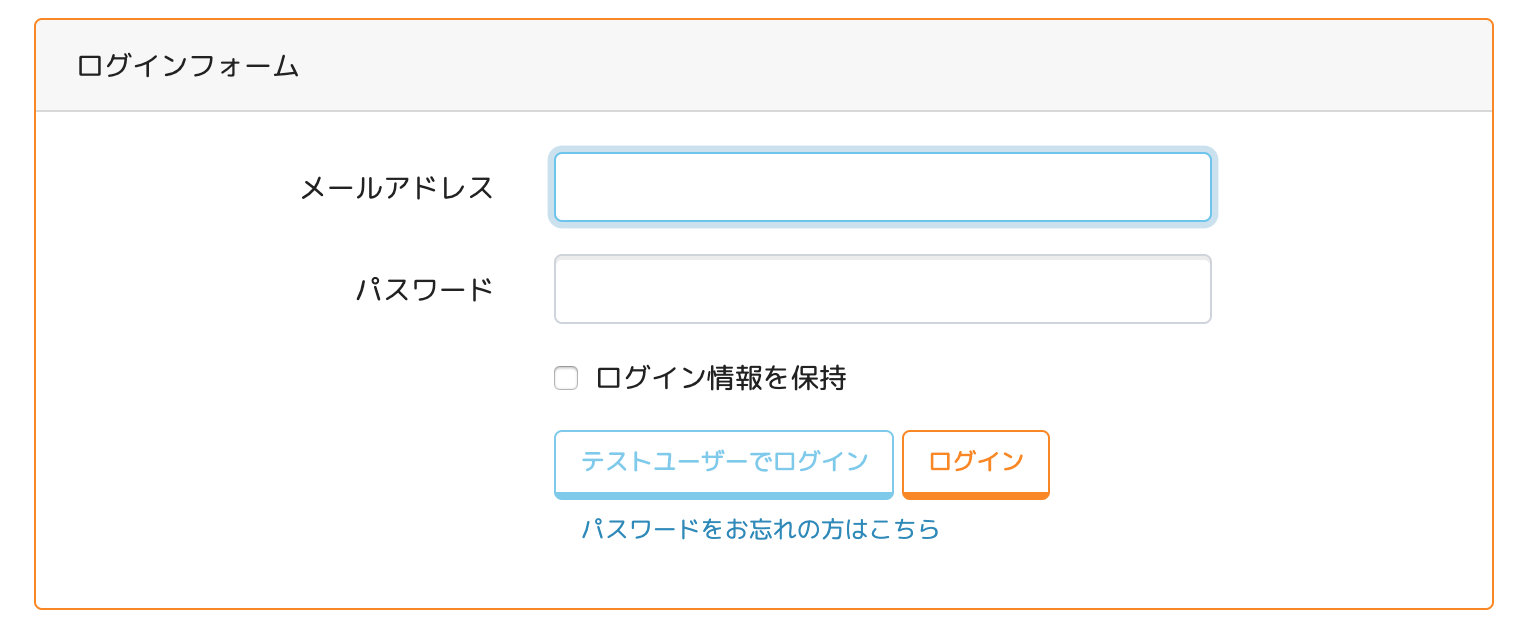
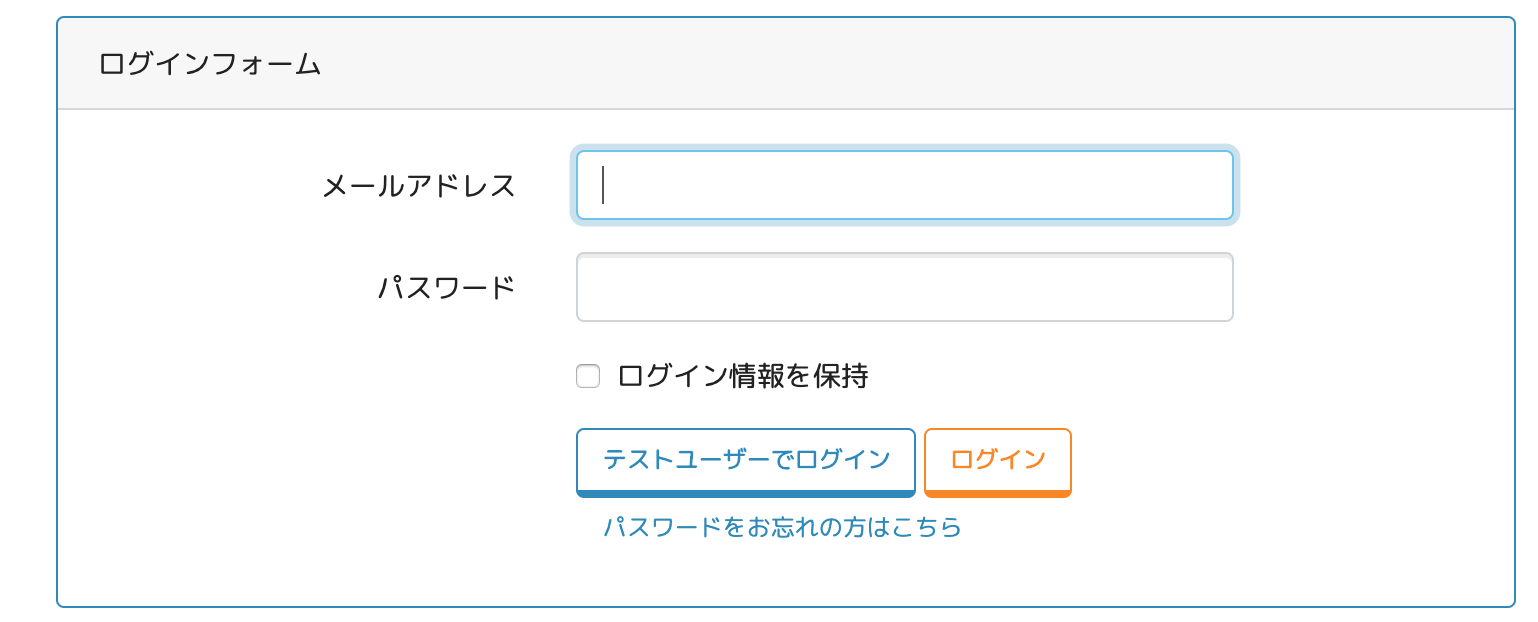
ユーザー詳細 パネルによる表示出し分け実装

diff --git a/public/css/custom.css b/public/css/custom.css
@@ -24,3 +24,16 @@ body {
 .main-ttl {
     text-shadow: 2px 2px #158bba;
 }
+
+#myFavos {
+    display: none;
+}
+
+#myComments {
+    display: none;
+}
+
+.nav-tabs .nav-link.active {
+    background: #158bba;
+    color: #fff;
+}

diff --git a/resources/views/users/show.blade.php b/resources/views/users/show.blade.php
@@ -2,6 +2,7 @@
 
 @section('content')
     <div class="container mt-3 text-center">
+        <h2>ユーザー詳細</h2>
         @if ($user->avatar_image)
             <dd class="col-md-9 w-25"><img src="{{ $user->avatar_image }}" class="rounded-circle w-25"></dd>
         @else
@@ -35,12 +36,109 @@
         </table>
         @if (Auth::id() === $user->id)
             <a href="{{ route('users.edit', ['user' => $user]) }}">
-                <button class="btn btn-outline-warning w-50 mb-3">編集する</button>
+                <button class="btn btn-outline-primary w-50 mb-3">編集する</button>
             </a>
             @component('components.delete-btn')
             @slot('name', 'users')
             @slot('id', $user->id)
             @endcomponent
         @endif
+
+        <ul class="nav nav-tabs nav-fill mt-5">
+            <li class="nav-item"><a href="#" id="postsTab" class="nav-link active">投稿一覧</a></li>
+            <li class="nav-item"><a href="#" id="favosTab" class="nav-link">お気に入り一覧</a></li>
+            <li class="nav-item"><a href="#" id="commentsTab" class="nav-link">コメント一覧</a></li>
+        </ul>
+
+        <div id="myPosts" class="nav-cnt">
+            <h3 class="mt-5">投稿一覧</h3>
+            <div class="row">
+                @forelse($user->maps as $map)
+                    <div class="col-md-6">
+                        <div class="card mb-2">
+                            <div class="card-header">
+                                タイトル：{{ $map->title }}
+                            </div>
+                            <div class="card-body">
+                                <p>場所：{{ $map->place }}</p>
+                                <p>日時：{{ $map->date }}</p>
+                                <a href="{{ route('map.show', ['map' => $map]) }}"><button class="btn btn-outline-primary">詳細</button></a>
+                            </div>
+                        </div>
+                    </div>
+                @empty
+                    <p>投稿はありません。</p>
+                @endforelse
+            </div>
+        </div>
+
+        <div id="myFavos" class="nav-cnt">
+            <h3 class="mt-5">お気に入りした投稿</h3>
+            <div class="row">
+                @forelse($user->comments as $comment)
+                    <div class="col-md-6">
+                        <div class="card mb-2">
+                            <div class="card-header">
+                                <p>投稿タイトル：{{ $comment->map->date }}</p>
+                                <p>場所：{{ $comment->map->place }}</p>
+                                <p>日時：{{ $comment->map->date }}</p>
+                            </div>
+                            <div class="card-body">
+                                <p>コメント内容：{{ $comment->body }}</p>
+                                <a href="{{ route('map.show', ['map' => $comment->map]) }}"><button class="btn btn-outline-primary">詳細</button></a>
+                            </div>
+                        </div>
+                    </div>
+                @empty
+                    <p>お気に入りはありません。</p>
+                @endforelse
+            </div>
+        </div>
+
+        <div id="myComments" class="nav-cnt">
+            <h3 class="mt-5">自分がコメントした内容</h3>
+            <div class="row">
+                @forelse($user->comments as $comment)
+                    <div class="col-md-6">
+                        <div class="card mb-2">
+                            <div class="card-header">
+                                <p>投稿タイトル：{{ $comment->map->date }}</p>
+                                <p>場所：{{ $comment->map->place }}</p>
+                                <p>日時：{{ $comment->map->date }}</p>
+                            </div>
+                            <div class="card-body">
+                                <p>コメント内容：{{ $comment->body }}</p>
+                                <a href="{{ route('map.show', ['map' => $comment->map]) }}"><button class="btn btn-outline-primary">詳細</button></a>
+                            </div>
+                        </div>
+                    </div>
+                @empty
+                    <p>コメントはありません。</p>
+                @endforelse
+            </div>
+        </div>
     </div>
+    <!-- ./container -->
+@endsection
+
+@section('scripts')
+<script>
+$(".nav-item a").on('click', function(e) {
+    e.preventDefault();
+    $('.nav-cnt').css('display', 'none');
+    $('.nav-item a').removeClass('active');
+});
+$('#postsTab').on('click', function(e) {
+    $('#postsTab').addClass('active');
+    $('#myPosts').css('display', 'block');
+});
+$('#favosTab').on('click', function(e) {
+    $('#favosTab').addClass('active');
+    $('#myFavos').css('display', 'block');
+});
+$('#commentsTab').on('click', function(e) {
+    $('#commentsTab').addClass('active');
+    $('#myComments').css('display', 'block');
+});
+</script>    
 @endsection

diff --git a/resources/views/map/show.blade.php b/resources/views/map/show.blade.php
@@ -6,8 +6,8 @@
 @endsection
 
 @section('content')
-<div class="container mt-3">
-    <h2 class="text-center">詳細</h2>
+<div class="container mt-3 text-center">
+    <h2>詳細</h2>
     @if ($map->user->avatar_image)
         <dd class="col-md-9 w-25"><img src="{{ $map->user->avatar_image }}" class="rounded-circle w-25"></dd>
     @else
@@ -51,13 +51,24 @@
             </tr>
         </tbody>
     </table>
+    <!-- 投稿者にのみ編集や削除ボタン表示 -->
+    @if($user_id === $map->user_id)
+        <a href="{{ route('map.edit', ['map' => $map]) }}">
+            <button class="btn btn-outline-primary w-50 mb-2">編集</button>
+        </a>
+        @component('components.delete-btn')
+            @slot('name', 'map')
+            @slot('id', $map->id)
+        @endcomponent
+    @endif
 
     <!-- コメントを表示 -->
-    <h2>コメント一覧</h2>
+    <h2 class="mt-5">コメント一覧</h2>
     @forelse ($map->comments as $comment)
-        <div class="card w-50">
+        <div class="card mb-2">
             <div class="card-header">
-                投稿者：<a href="{{route('users.show', ['user' => $comment->user->id]) }}">{{ $comment->user->name }}</a>
+                <p><img src="{{ $comment->user->avatar_image }}" width="50" class="rounded-circle mr-2">投稿者：<a href="{{route('users.show', ['user' => $comment->user->id]) }}">{{ $comment->user->name }}</a></p>
+                投稿日時：{{ $comment->created_at }}
             </div>
             <div class="card-body">
                 {{ $comment->body }}
@@ -69,24 +80,14 @@
     <form method="POST" action="{{ route('comments.store', $map) }}" name="commentForm">
         @csrf
         <div class="form-group">
-            <label for="comment">コメント</label>
+            <label for="comment">コメントフォーム</label>
             @if($errors->has('body'))
                 <span class="text-danger">{{ $errors->first('body') }}</span>
             @endif
-            <input type="text" class="form-control w-50" name="body" value="{{ old('body') }}">
+            <input type="text" class="form-control w-50 mx-auto" name="body" value="{{ old('body') }}">
         </div>
         <input type="submit" class="btn btn-outline-success w-50" value="コメント">
     </form>
-    <!-- 投稿者にのみ編集や削除ボタン表示 -->
-    @if($user_id === $map->user_id)
-        <a href="{{ route('map.edit', ['map' => $map]) }}">
-            <button class="btn btn-outline-primary w-50 mb-2">編集</button>
-        </a>
-        @component('components.delete-btn')
-        @slot('name', 'map')
-        @slot('id', $map->id)
-        @endcomponent
-    @endif
 </div>
 @endsection
 

diff --git a/resources/views/top.blade.php b/resources/views/top.blade.php
@@ -5,11 +5,11 @@
     <div class="container-fruid">
 
         <!-- Jumbotron Header -->
-        <div class="jumbotron mb-4 border-warning top-image">
+        <div class="jumbotron mb-4 border-primary top-image">
             <div class="bg-mask">
                 <h1 class="display-1 main-ttl">Gmap App</h1>
-                <p class="h3">グーグルマップAPIを使った予定共有アプリです。</p>
-                <a href="{{ route('map.index') }}" class="btn btn-warning btn-lg">マップを見る</a>
+                <a href="{{ route('map.index') }}" class="btn btn-dark btn-lg">マップを見る</a>
+                <a href="{{ route('login') }}" class="btn btn-primary btn-lg">ログイン</a>
             </div>
         </div>
     </div>
@@ -53,7 +53,7 @@
                 <p class="card-text">Lorem ipsum dolor sit amet, consectetur adipisicing elit. Sapiente esse necessitatibus neque.</p>
             </div>
             <div class="card-footer">
-                <a href="#" class="btn btn-outline-warning">Find Out More!</a>
+                <a href="{{ route('login') }}" class="btn btn-outline-primary">ログイン</a>
             </div>
             </div>
         </div>

diff --git a/resources/views/map/index.blade.php b/resources/views/map/index.blade.php
@@ -23,15 +23,15 @@
             @csrf
                 <div class="modal-body">
                     <div class="form-group">
+                        <label for="title">タイトル</label>
+                        <input type="text" name="title" id="title" class="form-control" required>
+                    </div>
+                    <div class="form-group">
                         <label for="place">場所</label>
                         <input type="text" name="place" id="place" class="form-control" required>
                         @if($errors->first('place'))
                             <p class="text-danger">{{ $errors->first('place') }}</p>
                         @endif
-                    </div>
-                    <div class="form-group">
-                        <label for="title">タイトル</label>
-                        <input type="text" name="title" id="title" class="form-control" required>
                     </div>
                     <div class="form-group">
                         <label for="content">内容</label>

diff --git a/resources/views/auth/login.blade.php b/resources/views/auth/login.blade.php
@@ -4,7 +4,7 @@
 <div class="container mt-3">
     <div class="row justify-content-center">
         <div class="col-md-8">
-            <div class="card border-warning">
+            <div class="card border-primary">
                 <div class="card-header">{{ __('ログインフォーム') }}</div>
 
                 <div class="card-body">
@@ -53,7 +53,7 @@
 
                         <div class="form-group row mb-0">
                             <div class="col-md-8 offset-md-4">
-                                <button type="submit" class="btn btn-outline-info" id="sample">
+                                <button type="submit" class="btn btn-outline-primary" id="sample">
                                     {{ __('テストユーザーでログイン') }}
                                 </button>
                                 <button type="submit" class="btn btn-outline-warning">
